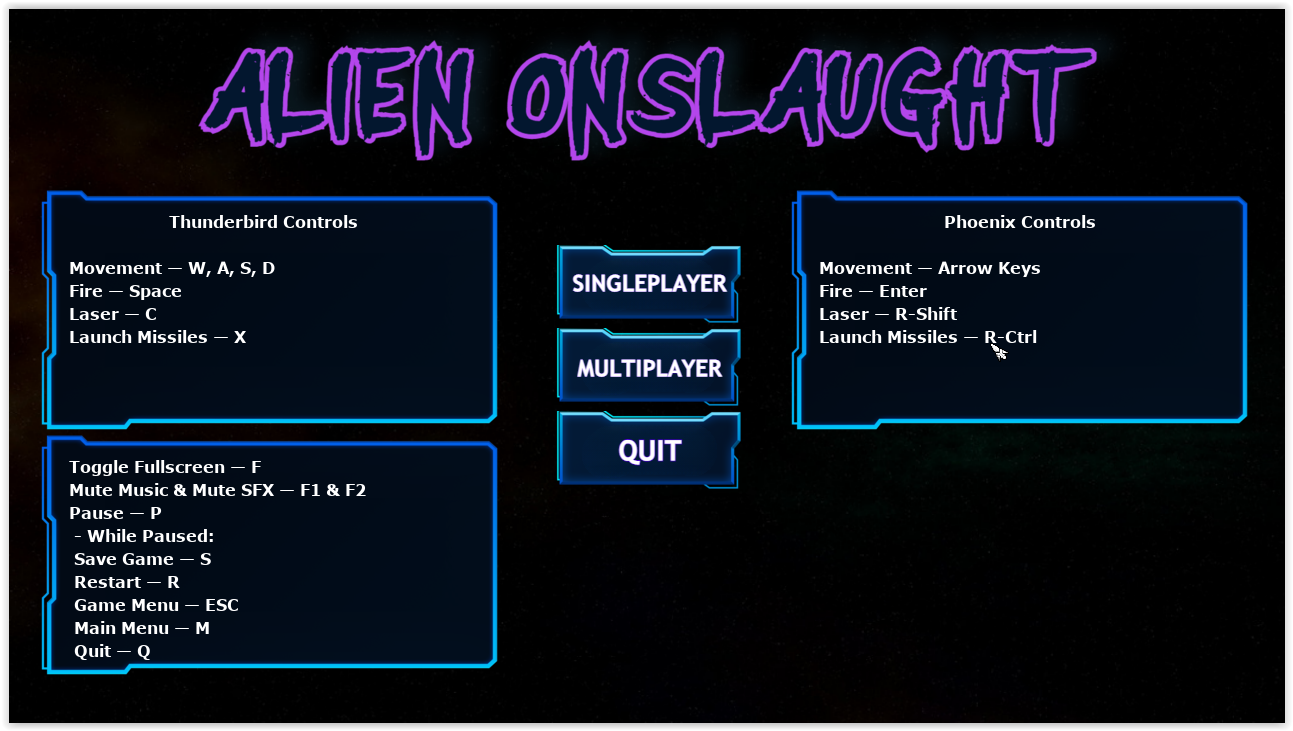
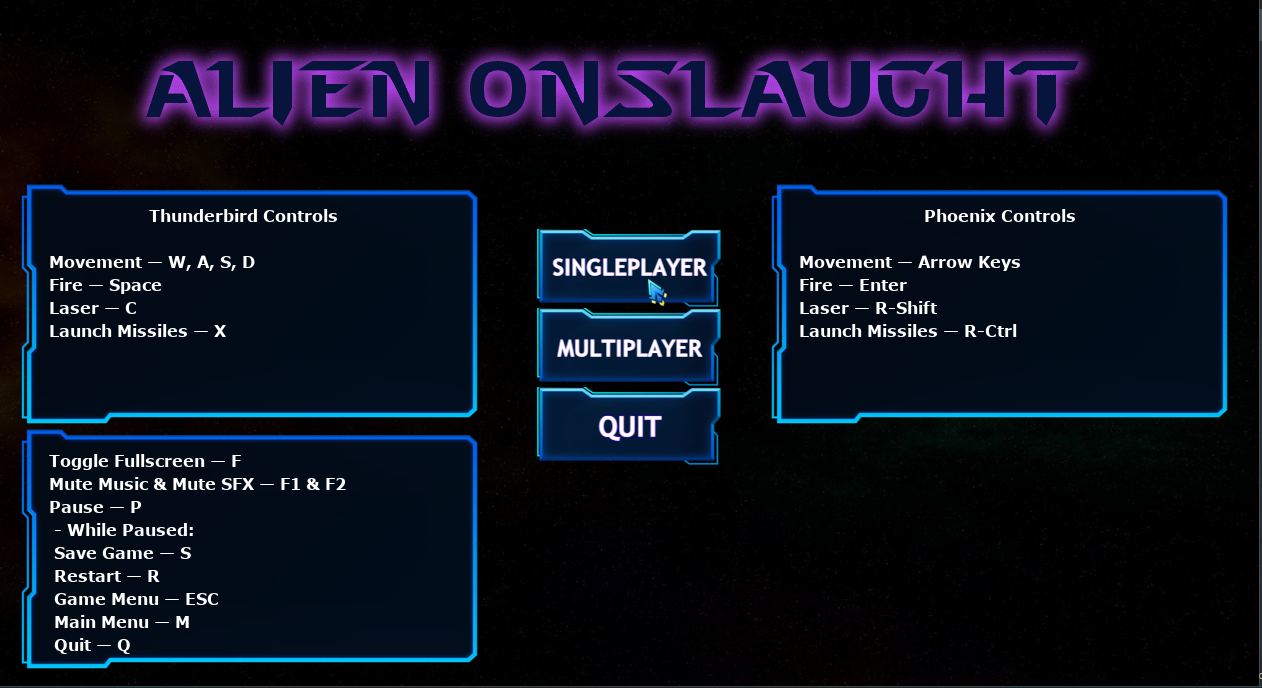
Readme update / menu image updated.

Changed region(s): [[0.0, 0.0, 1.0, 1.0], [0.0927, 0.061, 0.8653, 0.2137]]

diff --git a/README.md b/README.md
@@ -70,6 +70,10 @@
 <details>
 <summary><h2>Alien-Onslaught Changelog</h2></summary>
 
+### Version 3.5:
+* New cursor image.
+* New game title image on main menu.
+
 ### Version 3.4:
 * Game mode name is now displayed in the title when displaying high scores.
 * Updated tests for the new changes.
